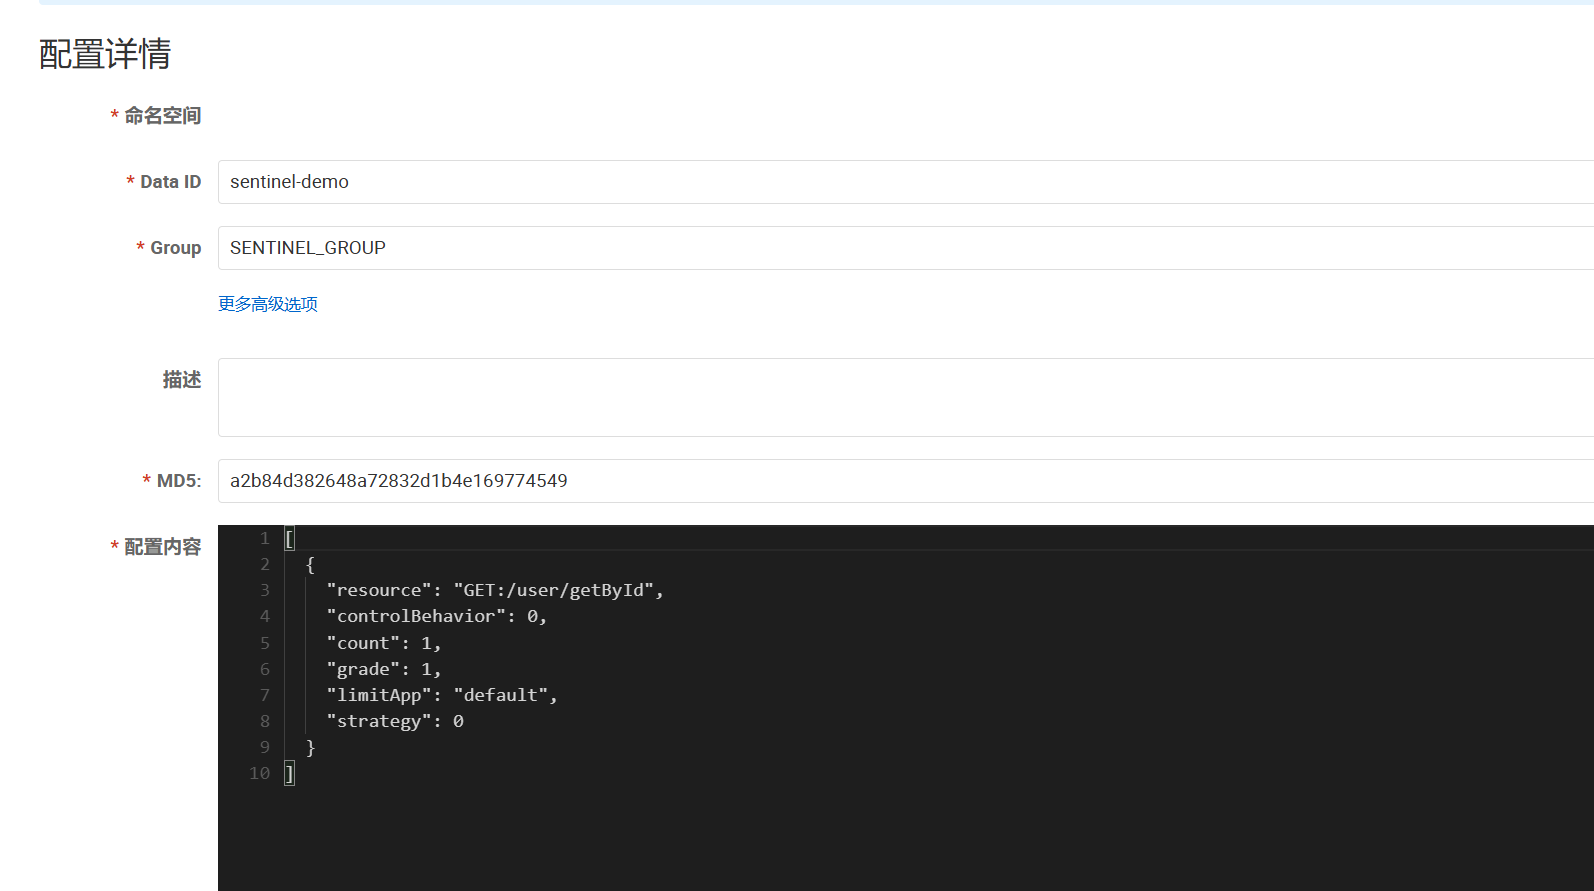
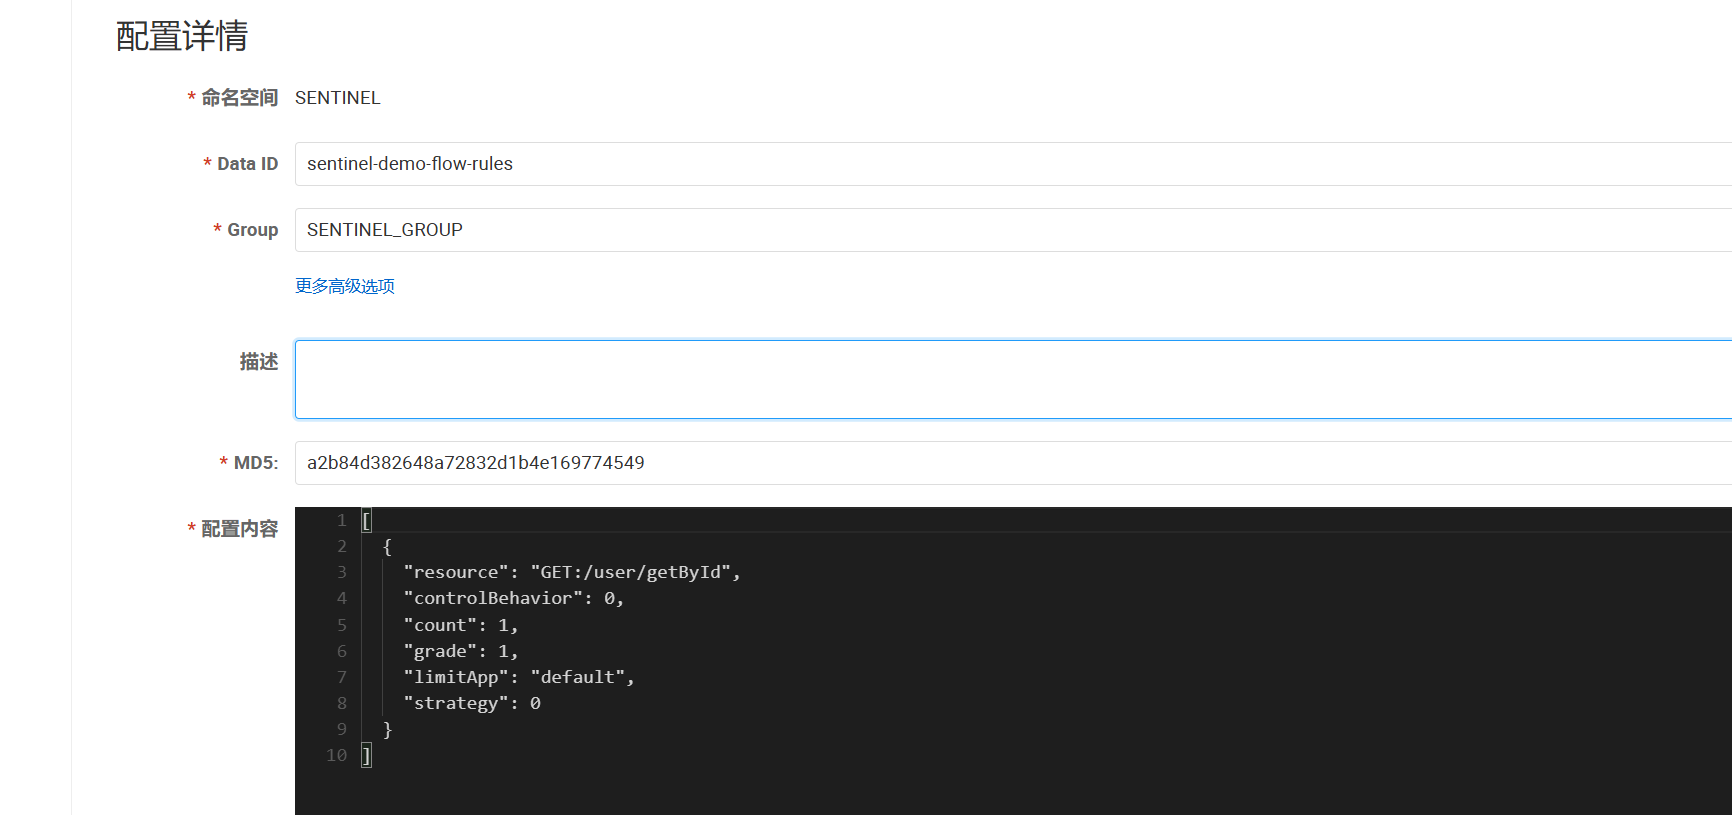
修改笔记：Sentinel整Nacos实现配置持久化

diff --git a/分布式与微服务/Sentinel/subfile/_3Sentinel整Nacos实现配置持久化.md b/分布式与微服务/Sentinel/subfile/_3Sentinel整Nacos实现配置持久化.md
@@ -77,7 +77,7 @@ public class SentinelRuleConfiguration implements ApplicationListener<ContextRef
     // nacos dataId
     private static final String dataId = "sentinel-demo";
 
-//    private static final String NACOS_NAMESPACE_ID = "sentinel-config";
+    private static final String NACOS_NAMESPACE_ID = "SENTINEL";
 
     @Override
     public void onApplicationEvent(ContextRefreshedEvent event) {
@@ -98,20 +98,21 @@ public class SentinelRuleConfiguration implements ApplicationListener<ContextRef
 
 ```java
 import com.alibaba.nacos.api.NacosFactory;
+import com.alibaba.nacos.api.PropertyKeyConst;
 import com.alibaba.nacos.api.config.ConfigService;
+import java.util.Properties;
 
-/**
- * Nacos config sender for demo.
- *
- * @author Eric Zhao
- */
+
 public class NacosConfigSender {
 
     public static void main(String[] args) throws Exception {
-        // nacos地址
-        final String remoteAddress = "10.10.10.12:8848";
         final String groupId = "SENTINEL_GROUP";
-        final String dataId = "sentinel-demo";
+        final String dataId = "sentinel-demo-flow-rules";
+        // 创建ConfigService实例
+        Properties properties = new Properties();
+        properties.put(PropertyKeyConst.SERVER_ADDR, "10.10.10.12:8848");
+        // 指定namespace
+        properties.put(PropertyKeyConst.NAMESPACE, "SENTINEL");
         final String rule = "[\n"
             + "  {\n"
             + "    \"resource\": \"GET:/user/getById\",\n"
@@ -122,10 +123,11 @@ public class NacosConfigSender {
             + "    \"strategy\": 0\n"
             + "  }\n"
             + "]";
-        ConfigService configService = NacosFactory.createConfigService(remoteAddress);
+        ConfigService configService = NacosFactory.createConfigService(properties);
         System.out.println(configService.publishConfig(dataId, groupId, rule));
     }
 }
+
 ```
 
 执行完后，Nacos中就会出现对应的配置：
@@ -163,6 +165,10 @@ public class NacosConfigSender {
 首先通过git拉取下载源码，导入idea工程：
 
 [https://github.com/alibaba/Sentinel](https://github.com/alibaba/Sentinel)
+
+本文源码修改基于 Sentinel 1.8.8 版本，所有修改的源码可参考：
+
+[https://github.com/bigcoder84/Sentinel](https://github.com/bigcoder84/Sentinel)
 
 #### 4.1.1 流控规则接口
 
@@ -426,7 +432,7 @@ public class FlowControllerV2 {
 
 到这里所有流控规则相关的后端接口都已经改造完毕，我们需要接着改造前端页面，将页面请求的接口全部换成V2新接口。
 
-#### 4.2.6 修改前端路由配置（sidebar.html）
+#### 4.2.6 修改前端“流控规则”路由配置（sidebar.html）
 
 找到 `resources/app/scripts/directives/sidebar/sidebar.html` 文件，该文件是用来渲染左侧路由的：
 
@@ -468,3 +474,152 @@ public class FlowControllerV2 {
       })
 ```
 
+#### 4.2.7 修改前端“簇点链路”中流控配置的接口
+
+根据 `app/scripts/directives/sidebar/sidebar.html` 触点链路路由调用js方法可知，最终路由转发到了 `app/views/identity.html` 页面：
+
+```html
+<!-- app/scripts/directives/sidebar/sidebar.html -->
+<li ui-sref-active="active" ng-if="!entry.isGateway">
+  <a ui-sref="dashboard.identity({app: entry.app})">
+    <i class="glyphicon glyphicon-list-alt"></i>&nbsp;&nbsp;簇点链路</a>
+</li>
+```
+
+```js
+// app/scripts/app.js
+.state('dashboard.identity', {
+  templateUrl: 'app/views/identity.html',
+  url: '/identity/:app',
+  controller: 'IdentityCtl',
+  resolve: {
+    loadMyFiles: ['$ocLazyLoad', function ($ocLazyLoad) {
+      return $ocLazyLoad.load({
+        name: 'sentinelDashboardApp',
+        files: [
+          'app/scripts/controllers/identity.js',
+        ]
+      });
+    }]
+  }
+})
+```
+
+在 `app/views/identity.html` 页面中，我们需要将“流控”弹窗的保存按钮调用的接口换成V2版本，
+
+![](../images/18.png)
+
+`addNewFlowRule` 方法在 `app/scripts/controllers/identity.js` 文件中：
+
+```java
+    $scope.addNewFlowRule = function (resource) {
+      if (!$scope.macInputModel) {
+        return;
+      }
+      var mac = $scope.macInputModel.split(':');
+      flowRuleDialogScope = $scope.$new(true);
+      flowRuleDialogScope.currentRule = {
+        enable: false,
+        strategy: 0,
+        grade: 1,
+        controlBehavior: 0,
+        resource: resource,
+        limitApp: 'default',
+        clusterMode: false,
+        clusterConfig: {
+            thresholdType: 0
+        },
+        app: $scope.app,
+        ip: mac[0],
+        port: mac[1]
+      };
+
+      flowRuleDialogScope.flowRuleDialog = {
+        title: '新增流控规则',
+        type: 'add',
+        confirmBtnText: '新增',
+        saveAndContinueBtnText: '新增并继续添加',
+        showAdvanceButton: true
+      };
+      // $scope.flowRuleDialog = {
+      //     showAdvanceButton : true
+      // };
+      flowRuleDialogScope.saveRule = saveFlowRule;
+      flowRuleDialogScope.saveRuleAndContinue = saveFlowRuleAndContinue;
+      flowRuleDialogScope.onOpenAdvanceClick = function () {
+        flowRuleDialogScope.flowRuleDialog.showAdvanceButton = false;
+      };
+      flowRuleDialogScope.onCloseAdvanceClick = function () {
+        flowRuleDialogScope.flowRuleDialog.showAdvanceButton = true;
+      };
+
+      flowRuleDialog = ngDialog.open({
+        template: '/app/views/dialog/flow-rule-dialog.html',
+        width: 680,
+        overlay: true,
+        scope: flowRuleDialogScope
+      });
+    };
+```
+
+在这个方法中，会调用 `saveFlowRule` 方法保存流控规则：
+
+```java
+    function saveFlowRule() {
+      if (!FlowService.checkRuleValid(flowRuleDialogScope.currentRule)) {
+        return;
+      }
+      FlowService.newRule(flowRuleDialogScope.currentRule).success(function (data) {
+        if (data.code === 0) {
+          flowRuleDialog.close();
+          let url = '/dashboard/flow/' + $scope.app;
+          $location.path(url);
+        } else {
+          alert('失败：' + data.msg);
+        }
+      }).error((data, header, config, status) => {
+          alert('未知错误');
+      });
+    }
+```
+
+在这个方法中，会调用 `FlowService.newRule` 方法发送HTTP请求新建规则，成功后会将页面重定向至 ` '/dashboard/flow/' + $scope.app`，所以我们需要改两个地方：
+
+1. 将FlowService改成V2版本
+
+   ![](../images/20.png)
+
+2. 将重定向页面跳转至 ` '/dashboard/v2/flow/' + $scope.app`![](../images/19.png)
+
+#### 4.3.8 重新打包项目
+
+进入 `sentinel-dashboard` 目录，执行下列命令重新打包：
+
+```shell
+mvn clean package -Dmaven.test.skip
+```
+
+### 4.3 测试
+
+![](../images/2.gif)
+
+可以看到修改后的Dashboard成功将配置写入Nacos中，Nacos配置发生变更，也同时通知了订阅这些配置的客户端，使得业务服务能实时更新流控配置，即使业务服务重启，之前仍能正常从Nacos中拉取配置。
+
+## 五. 总结
+
+本文详细介绍了如何利用Nacos实现Sentinel Dashboard配置的持久化，解决了业务服务重启后配置丢失的问题。通过以下几个步骤，我们成功实现了配置的动态管理和持久化存储：
+
+1. **引入Nacos依赖**：在项目中添加了`sentinel-datasource-nacos`依赖，为后续集成打下基础。
+2. **配置自动加载**：通过实现`ReadableDataSource`接口，配置了规则自动从Nacos加载到Sentinel的流程。
+3. **Nacos配置写入**：通过编写`NacosConfigSender`类，实现了向Nacos写入配置的功能。
+4. **Dashboard源码改造**：针对Dashboard存在的问题，通过修改前后端源码，实现了配置的持久化存储和同步更新。
+
+通过这一系列的改造，我们不仅提高了Sentinel Dashboard的可用性和稳定性，还增强了其在生产环境中的实用性。现在，即使在业务服务重启的情况下，配置也不会丢失，确保了服务的连续性和一致性。
+
+本文只是讲解了“流控规则”持久化的源码修改过程，如果其它模块也有持久化的需求，也可以参考此过程进行相应的源码修改。
+
+> 本文参考至：
+>
+> [dynamic-rule-configuration | Sentinel (sentinelguard.io)](https://sentinelguard.io/zh-cn/docs/dynamic-rule-configuration.html)
+>
+> [Sentinel Dashboard（基于1.8.1）流控规则持久化到Nacos——涉及部分Sentinel Dashboard源码改造 - JJian - 博客园 (cnblogs.com)](https://www.cnblogs.com/jian0110/p/14139044.html)
